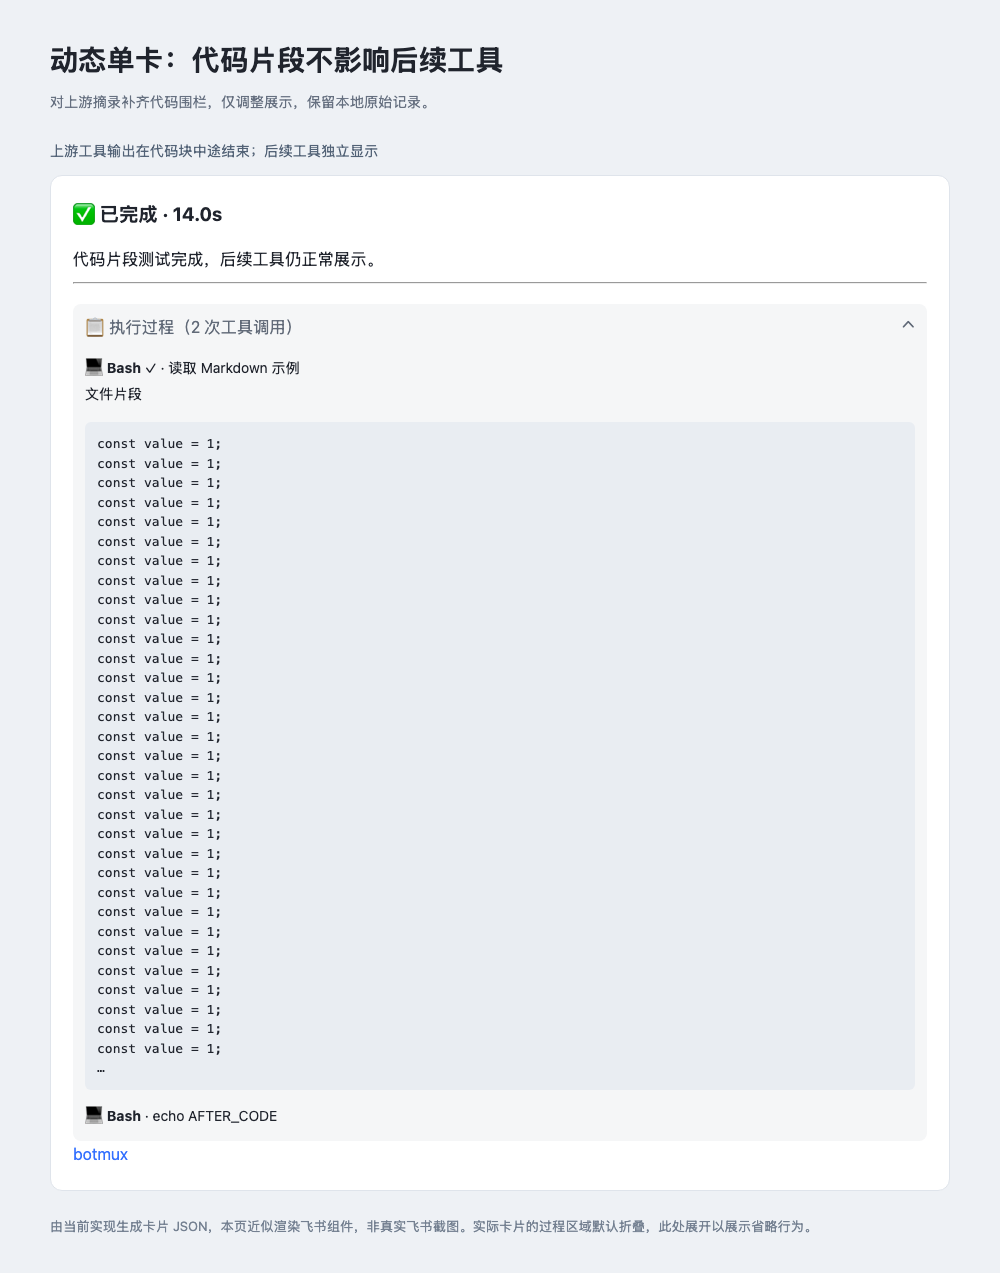
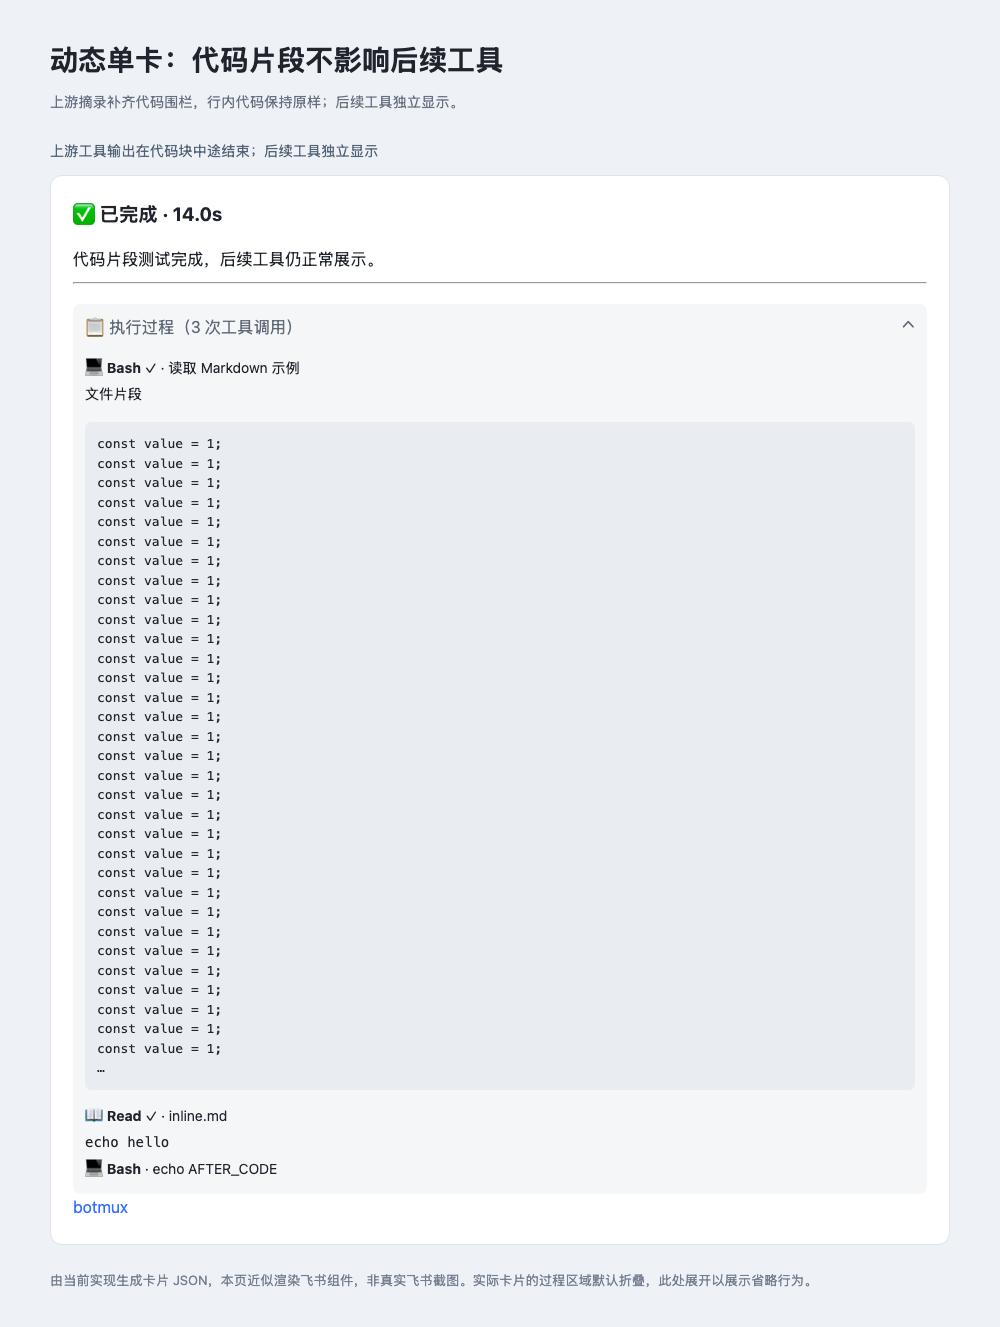
fix(lark): 避免将行内代码误判为代码围栏

diff --git a/test/turn-reply-card.test.ts b/test/turn-reply-card.test.ts
@@ -544,6 +544,18 @@ describe('public process and fallback compatibility', () => {
     expect(record).toEqual(original);
   });
 
+  it.each(['```echo hello```', '````code with ``` inside````'])(
+    'keeps inline code %s from opening a block around later tools', inline => {
+      const record = processRecord(2, 0);
+      record.tools[0].result = inline;
+      const history = processPanel(record).elements[0].content;
+      const tokens = new MarkdownIt().parse(history, {});
+      expect(tokens.some(token => token.type === 'fence')).toBe(false);
+      expect(tokens.filter(token => token.type === 'inline').map(token => token.content).join('\n')).toContain('**TOOL_1**');
+      expect(history).toContain(inline);
+    },
+  );
+
   it('gives a long final answer priority and keeps hidden-process semantics under truncation', () => {
     const record = processRecord(5, 80);
     record.activity = record.activity!.map(item => item.kind === 'progress' ? { ...item, text: item.text + 'x'.repeat(500) } : item);

diff --git a/src/im/lark/turn-reply-card.ts b/src/im/lark/turn-reply-card.ts
@@ -95,8 +95,12 @@ function closeProcessCodeFence(text: string): string {
   for (const line of text.split('\n')) {
     const fence = line.match(/^ {0,3}(`{3,}|~{3,})(.*)$/);
     if (!fence) continue;
-    if (!openFence) openFence = fence[1];
-    else if (fence[1][0] === openFence[0] && fence[1].length >= openFence.length && !fence[2].trim()) openFence = '';
+    if (!openFence) {
+      // A backtick fence's info string cannot contain backticks. Such a line
+      // may be inline code, so appending a closing fence would open a new block.
+      if (fence[1][0] === '`' && fence[2].includes('`')) continue;
+      openFence = fence[1];
+    } else if (fence[1][0] === openFence[0] && fence[1].length >= openFence.length && !fence[2].trim()) openFence = '';
   }
   return text + (openFence ? `\n${openFence}` : '');
 }

diff --git a/docs/plans/2026-09-13-unified-reply-card.md b/docs/plans/2026-09-13-unified-reply-card.md
@@ -42,6 +42,8 @@
 
 新增 5 项回归均在修复前失败，修复后通过。本轮单卡测试 **47 项**、兼容回归 **841 项**，合计 **11 文件、888 项通过**；完整构建及差异检查通过。未改动默认模式、其他 IM/CLI 的交付、沙盒资格、Ask 权限或平台/后端逻辑。本地测试运行于 macOS，使用模拟飞书传输。
 
+再次复查补齐了行内代码的边界：反引号代码围栏的信息串不能包含反引号，因此同一行中用三个或四个反引号包住的代码不应被补上结束围栏。新增两项用例在修复前均导致后续工具进入代码块，修复后正常；本轮单卡 **49 项**和兼容回归 **841 项**均通过，合计 **890 项通过**，完整构建及差异检查通过。下方示意同时覆盖上游摘录与行内代码。
+
 ![代码片段不吞掉后续工具记录的本地示意](../assets/unified-reply-code-fence-preview.png)
 
 ## 本地验证
